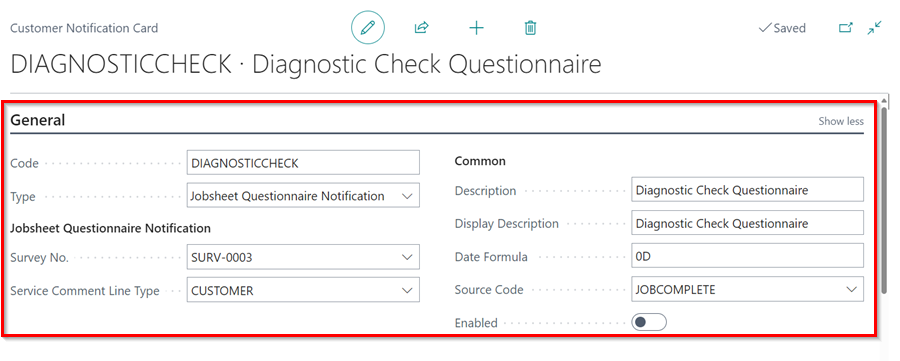
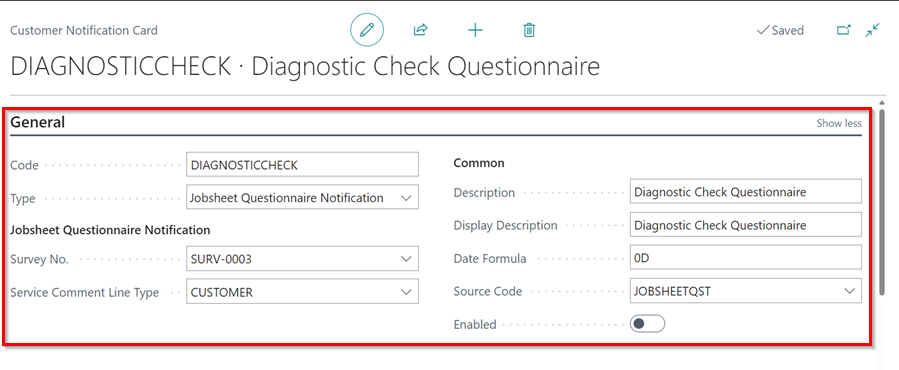
Jobsheet QST

diff --git a/docs/garagehive-diagnostic-questionnaire.md b/docs/garagehive-diagnostic-questionnaire.md
@@ -24,7 +24,7 @@ Diagnostic questionnaires are used by garages to gather additional information a
 
 3. Click on **New** to create a new **Customer Notification**.
 4. Choose **Jobsheet Questionnaire Notification** as the **Type**, select the diagnostic questionnaire survey that you created in the **Survey No.** field, set the **Service Comment Line Type**, enter the **Description**, and specify the **Date Formula** as **0D**.
-5. Set the **Source Code** field with the value **JOBCOMPLETE**. This will allow the system to use the description associated with that source code as the email subject line.
+5. By default, the Source Code field is set to **JOBSHEETQST**. However, you can change it to your preference. This will allow the system to use the description associated with that source code as the email subject line.
 
    ![](media/garagehive-creating-diagnostic-questionanaires8.png)
 
